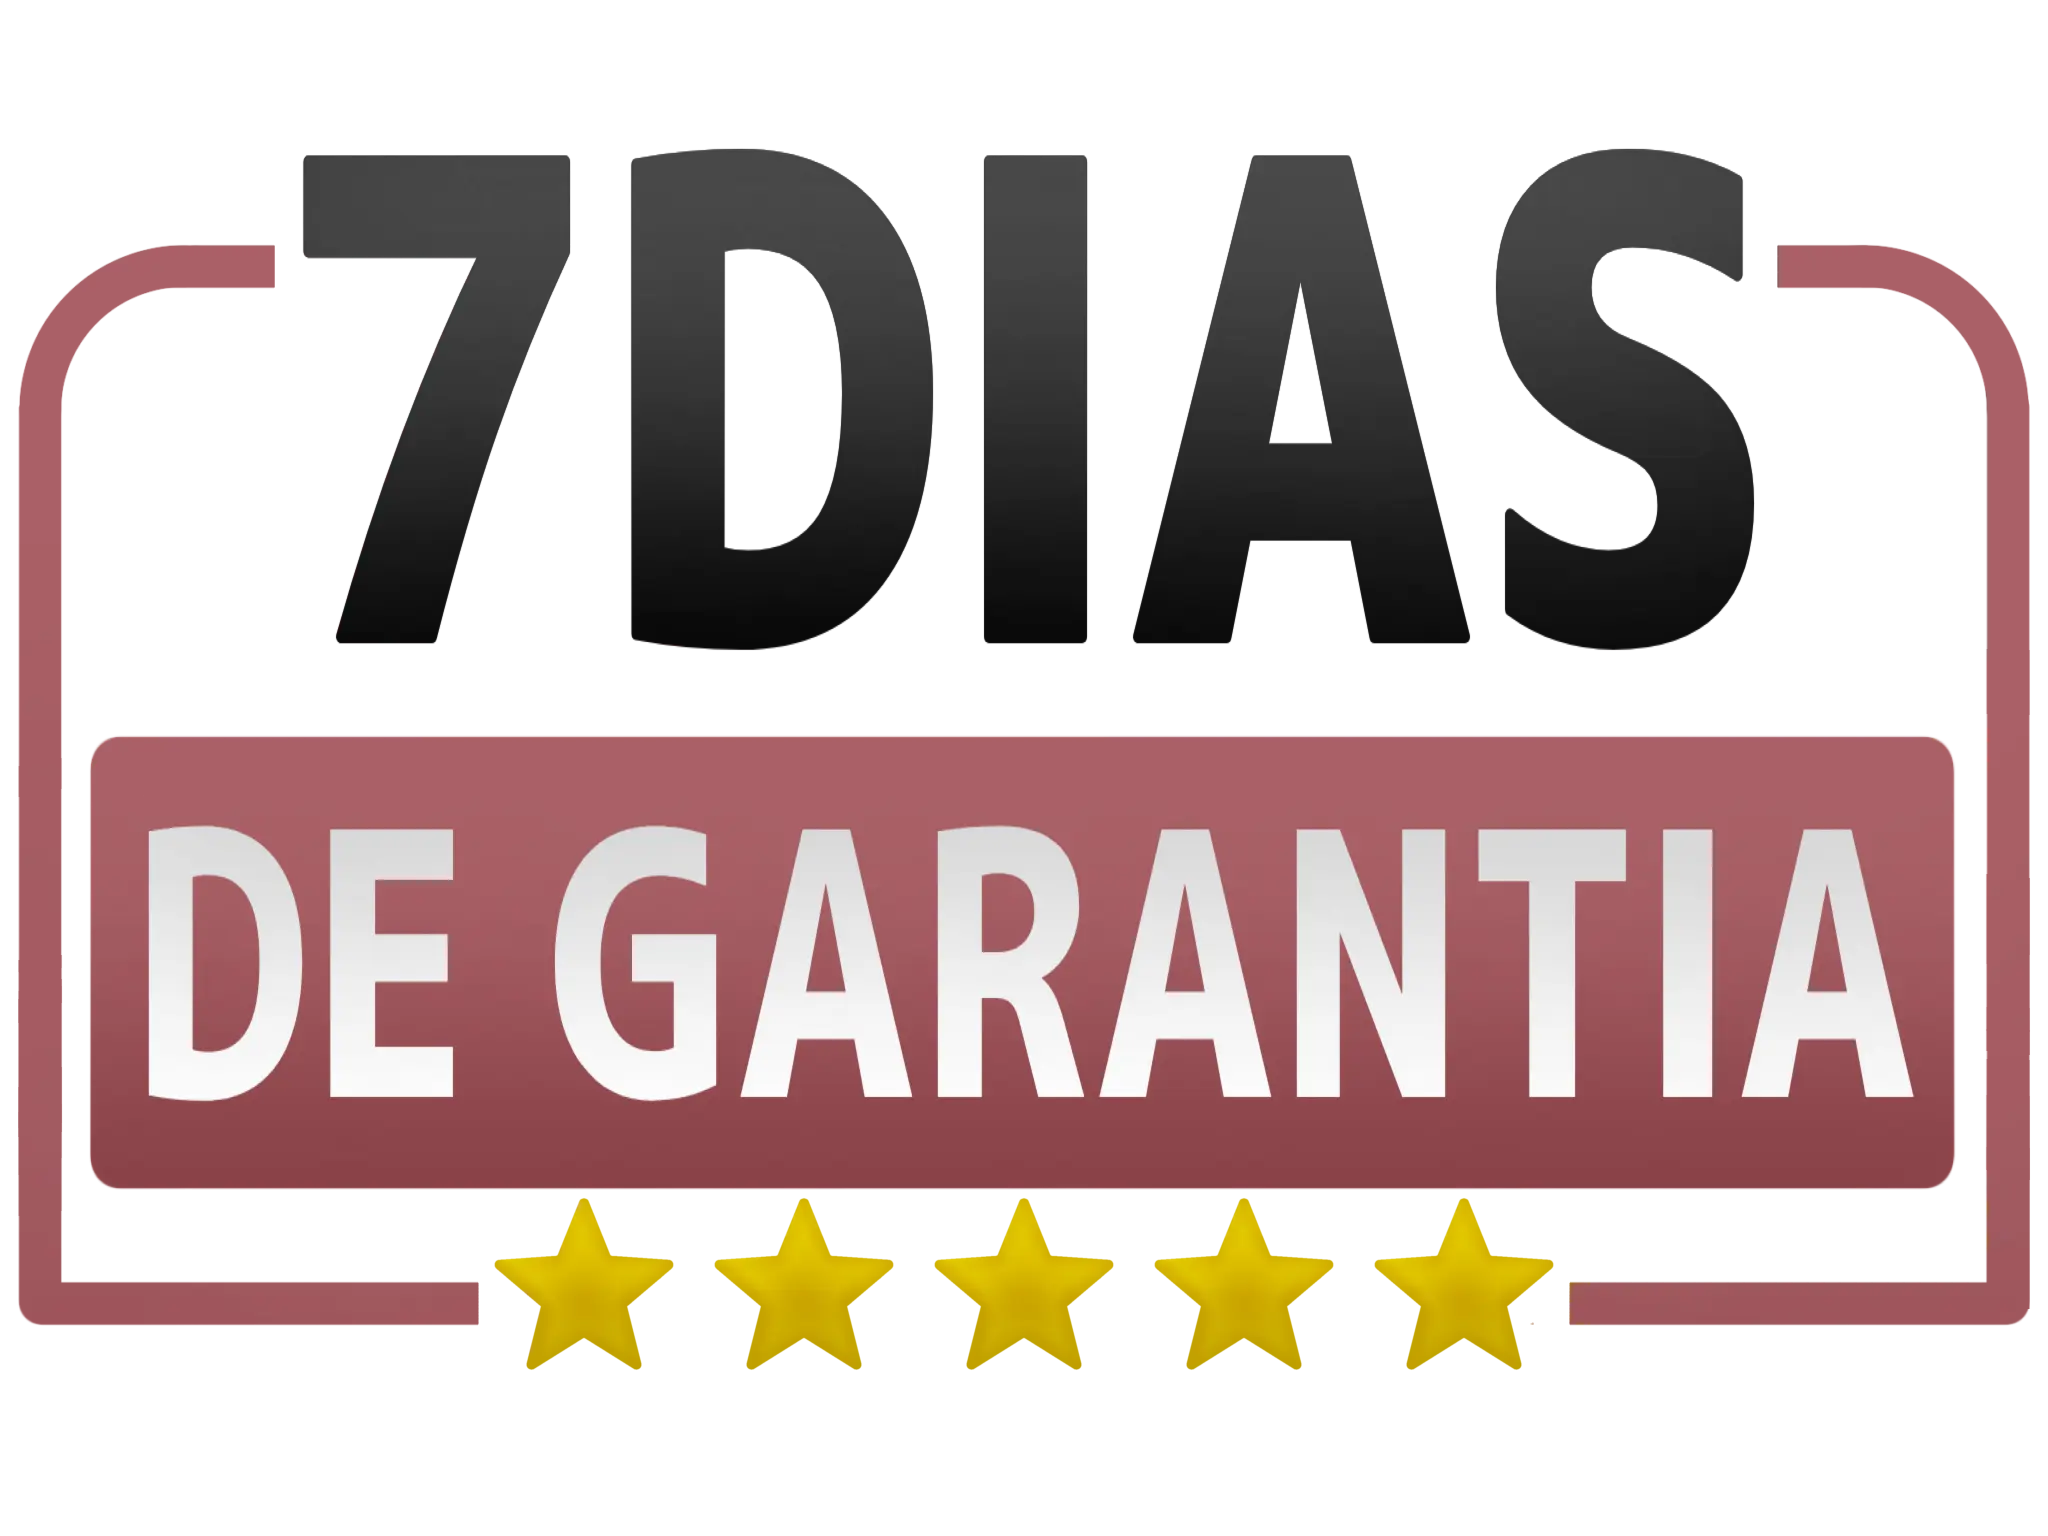
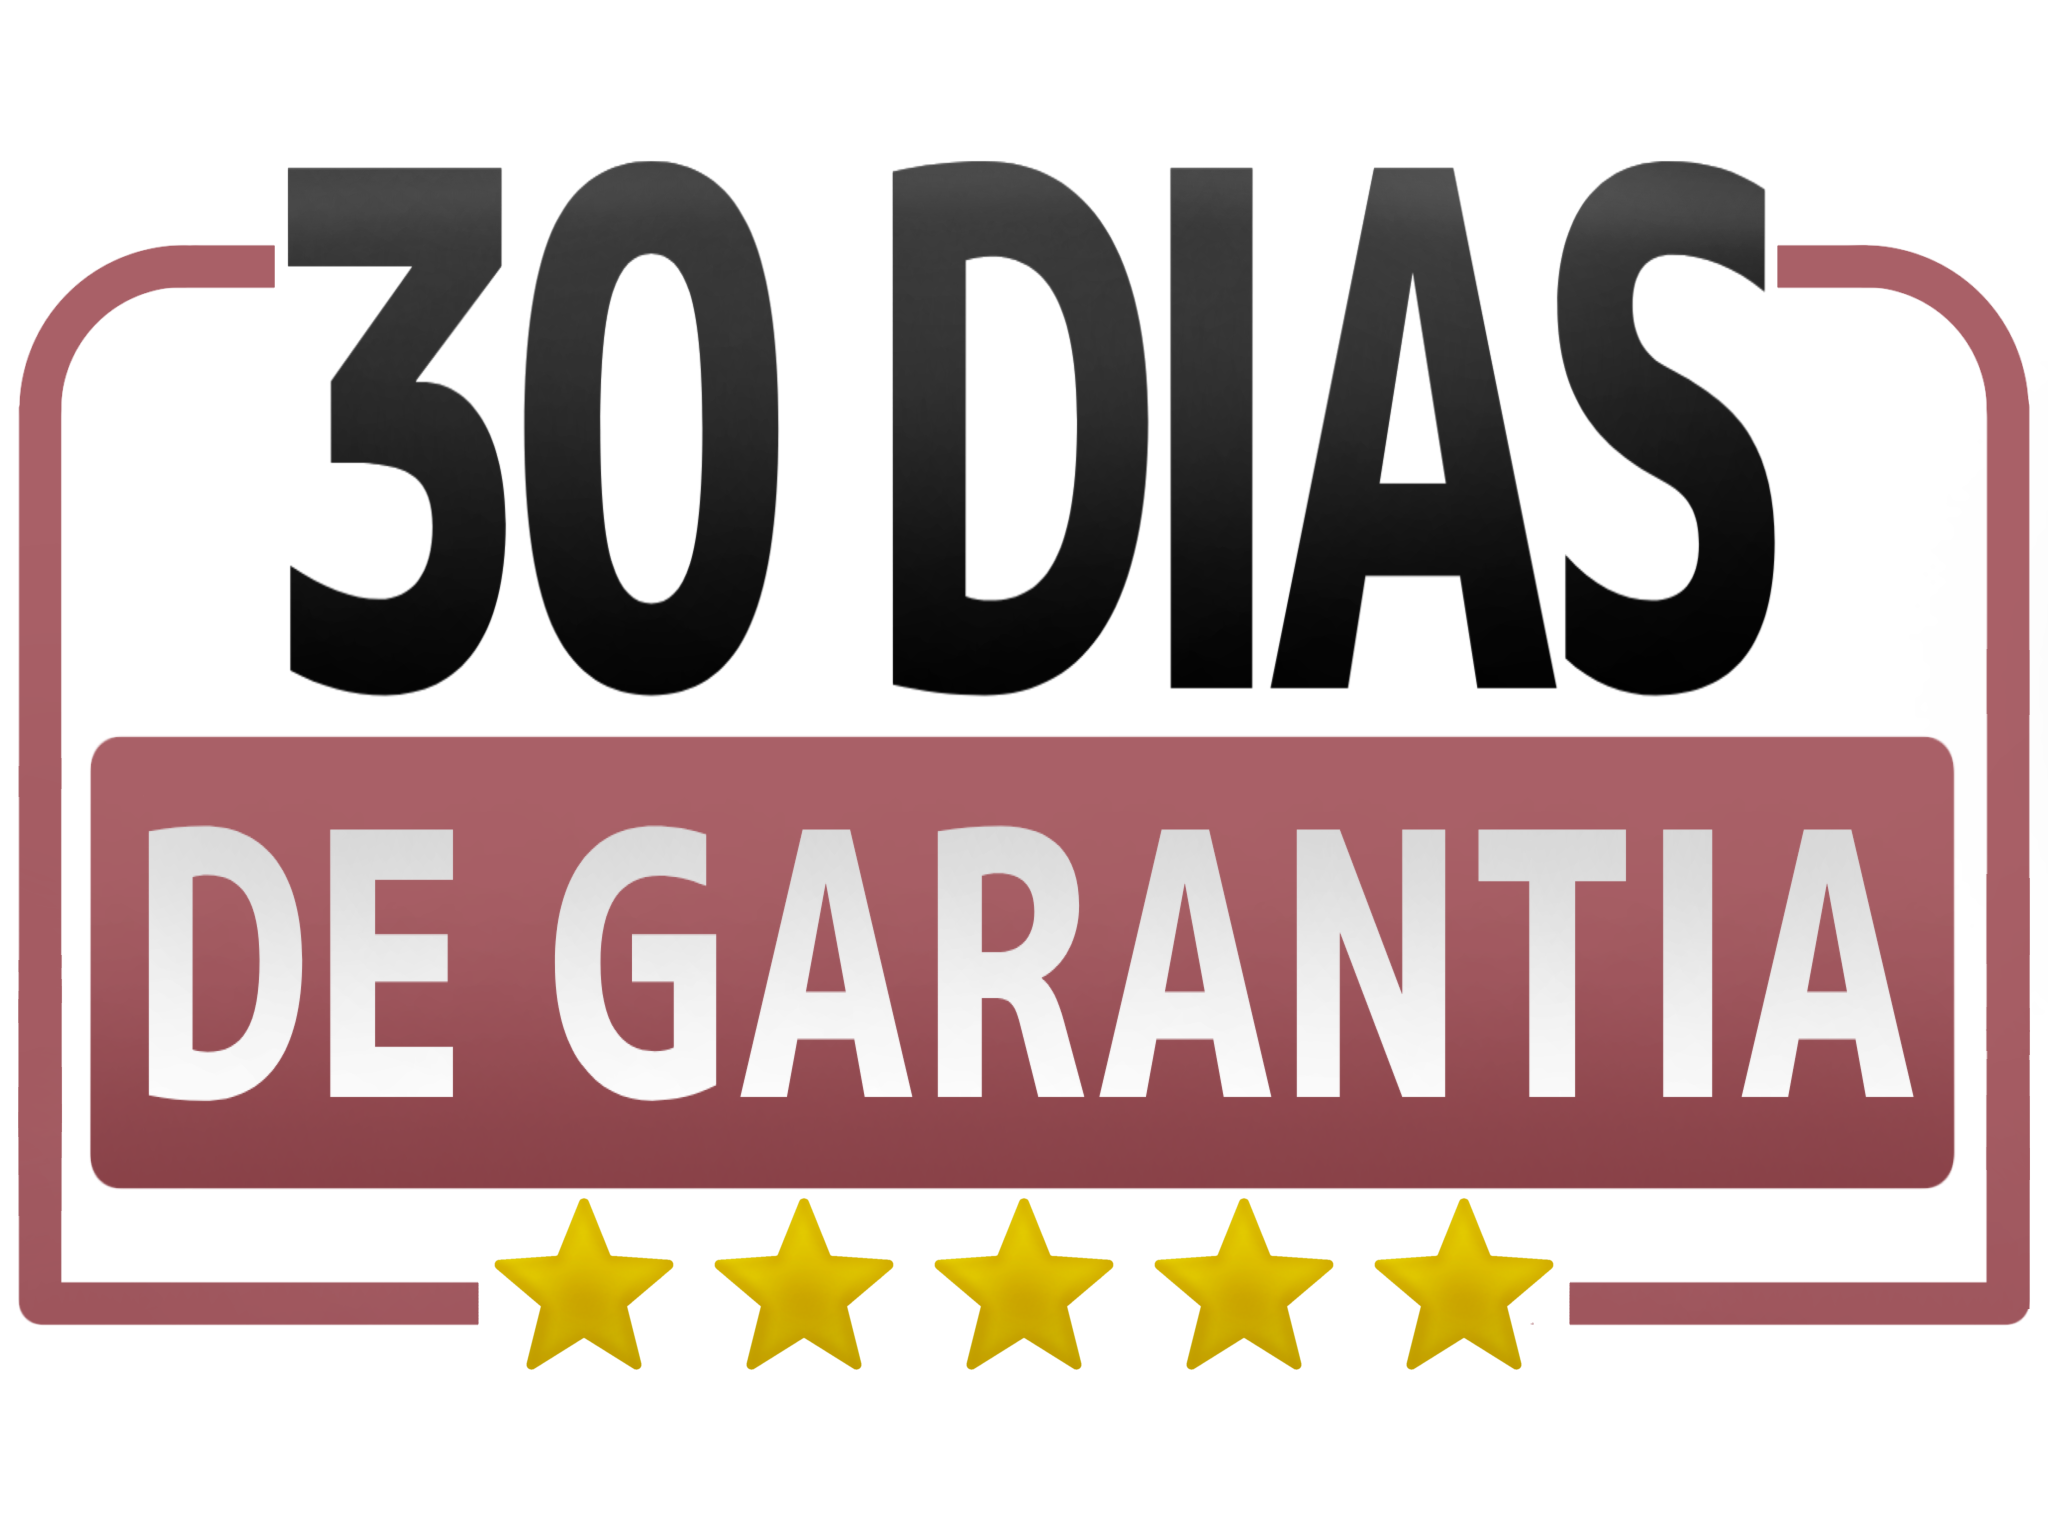
denovo2458ASDAS

Changed region(s): [[0.125, 0.0938, 0.875, 0.4688], [0.8125, 0.2188, 0.8438, 0.25]]

diff --git a/index.html b/index.html
@@ -96,7 +96,7 @@
         }
         
         .hero-logo {
-            width: 10%;
+            width: 5%;
             margin: 20px 0px;
         }
         .avaliacao{
@@ -307,7 +307,7 @@
             width: 250px;
             height: 70px;
             background: var(--primario);
-            animation: cta 0.8s ease-in-out infinite;
+            /*animation: cta 0.8s ease-in-out infinite;*/
         }
         .cta i{
             color: white;
@@ -850,7 +850,7 @@
         .section-carousel .buttons{
             width: 30%;
             display: flex;
-            justify-content: space-between;
+            justify-content: center;
         }
         .cta:hover{
             scale: 1.1;
@@ -860,7 +860,6 @@
 
         .section-carousel .buttons .cta:nth-child(1){
             --cor:var(--primario);
-            animation: cta 0.8s ease-in-out infinite;
             color: white;
             background: linear-gradient(var(--primario), var(--secundario));
         }
@@ -1207,8 +1206,7 @@
             <!-- Indicadores serão gerados pelo JavaScript -->
         </div>
         <div class="buttons">
-            <a href="https://pay.cakto.com.br/3bnxr32_591585" class="cta">ACESSAR AGORA</a>
-            <a href="#offer" class="cta">CONHEÇA</a>
+            <a href="#offer" class="cta">ACESSAR AGORA</a>
         </div>
     </section>
         <!-- Depoimento adicional -->
@@ -1525,7 +1523,7 @@
                     <li><i class="fas fa-arrow-right"></i>Comprou produtos que encalharam e ficou com dinheiro preso?</li>
                     <li><i class="fas fa-arrow-right"></i>Tem medo de investir errado e jogar seu dinheiro fora?</li>
                 </ul>
-                <a href="https://pay.cakto.com.br/3bnxr32_591585 " class="cta"><i class="fa-solid fa-people-arrows"></i>RESOLVA AGORA</a>
+                <a href="#offer" class="cta"><i class="fa-solid fa-people-arrows"></i>RESOLVA AGORA</a>
             </div>
         </div>
     </section>
@@ -1537,7 +1535,7 @@
             <div class="divisoens">
                 <img alt="Modelo 1" loading="lazy" src="modelo1.webp">
                 <div class="text">
-                    <h1>O que é o Produto?</h1>
+                    <h1>A Lista Secreta Das Influenciadoras</h1>
                     <p>🔍 A Lista Secreta é uma planilha digital, atualizada e organizada com:</p>
                     <p><i class="fa-solid fa-circle-check"></i> Fornecedores separados por nicho</p>
                     <p><i class="fa-solid fa-circle-check"></i> Categorias de Produtos já validados</p>
@@ -1616,7 +1614,7 @@
                     <h4 class="offer-current-price">APENAS <strong>R$ 37</strong></h4>
                     
                     <ul class="offer-features">
-                        <li><i class="fas fa-check-square"></i> Garantia de 7 dias.</li>
+                        <li><i class="fas fa-check-square"></i> Garantia de 30 dias.</li>
                         <li><i class="fas fa-check-square"></i> Lista Secreta Completa.</li>
                         <li><i class="fas fa-check-square"></i> 3 Bônus exclusivos.</li>
                         <li><i class="fas fa-check-square"></i> Guia de vendas.</li>
@@ -1624,7 +1622,7 @@
                     </ul>
                     
                     <a href="https://pay.cakto.com.br/3bnxr32_591585" class="cta-button offer-cta">COMPRAR AGORA</a>
-                    <p class="offer-security"><strong>Compra segura</strong> com <strong>garantia de 7 dias.</strong><br />Receba seu acesso imediatamente após a confirmação do pagamento.</p>
+                    <p class="offer-security"><strong>Compra segura</strong> com <strong>garantia de 30 dias.</strong><br />Receba seu acesso imediatamente após a confirmação do pagamento.</p>
                 </div>
             </div>
         </div>
@@ -1633,11 +1631,11 @@
         <div class="container">
             <div class="guarantee-content">
                 <div class="guarantee-image">
-                    <img src="garantia.webp" alt="Garantia de 7 dias">
+                    <img src="garantia.webp" alt="Garantia de 30 dias">
                 </div>
                 <div class="guarantee-text">
-                    <h2 class="section-heading">7 Dias de Garantia<br></h2>
-                    <p>Após a aprovação do pagamento, <strong>você terá até 7 dias corridos a partir da matrícula para experimentar o programa</strong>, e, em caso de insatisfação, pedir a restituição integral dos valores pagos </p>
+                    <h2 class="section-heading">30 Dias de Garantia<br></h2>
+                    <p>Após a aprovação do pagamento, <strong>você terá até 30 dias corridos a partir da matrícula para experimentar o programa</strong>, e, em caso de insatisfação, pedir a restituição integral dos valores pagos </p>
                 </div>
             </div>
         </div>
@@ -1873,7 +1871,7 @@
                         <i class="fas fa-chevron-down"></i>
                     </div>
                     <div class="faq-answer">
-                        <p> Você tem 7 dias de garantia total para pedir reembolso.</p>
+                        <p> Você tem 30 dias de garantia total para pedir reembolso.</p>
                     </div>
                 </div>
             </div>
